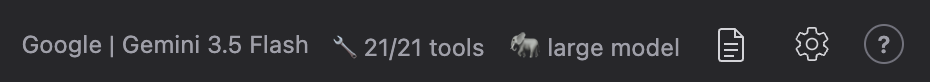
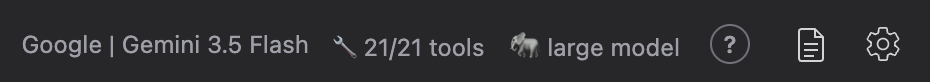
feat(webui): add context-screen help link; regroup chat header help
Add a documentation help link to the shared context editor header, gated on the
"Show help links" preference, placed to the left of the close button and linking
to the Context guide. It renders for every context tab (project/global/
instructions/skills/memory) since they share ContextHeader.

Reorder the chat header so the help "?" sits just left of the Context/Settings
icon pair, keeping that pair intact. This gives one consistent rule across both
headers: help sits immediately left of the trailing control cluster (left of the
close ✕ on the context screen, left of the icon pair in the chat).

Update the chat-ui docs page to match: reorder the header-right bullets, note
the help link can be hidden via Preferences, and refresh the header-right
screenshot.

Changed region(s): [[0.8419, 0.2927, 0.9978, 0.7805], [0.7484, 0.2927, 0.8108, 0.7805]]

diff --git a/webui/src/components/context/editor/ContextHeader.tsx b/webui/src/components/context/editor/ContextHeader.tsx
@@ -8,7 +8,13 @@ import {
   type DocMemoryStatus,
   type SaveStatus,
 } from "#webui/hooks/context/use-doc-memory";
+import { usePreferencesSettings } from "#webui/hooks/use-preferences-settings";
+import { CONTEXT_DOCS_URL } from "#webui/lib/config";
 import { SaveIndicator } from "./SaveIndicator";
+
+// Circular "?" help badge, matching the chat header and settings help links.
+const helpLinkClass =
+  "inline-flex items-center justify-center w-6 h-6 text-sm font-semibold leading-none rounded-full border border-zinc-400 dark:border-zinc-500 text-zinc-500 dark:text-zinc-400 hover:border-zinc-200 hover:text-white dark:hover:border-zinc-300 dark:hover:text-white no-underline shrink-0 transition-colors";
 
 interface ContextHeaderProps {
   title: string;
@@ -30,21 +36,23 @@ interface ContextHeaderProps {
 /**
  * Header strip showing the Producer Pal Context brand (logo + title, top-left),
  * the tab strip (or a plain title), the save indicator (or a custom
- * `rightSlot`), and (when mounted inside the chat-app overlay) a close button.
+ * `rightSlot`), a documentation help link (when help links are enabled in
+ * preferences), and (when mounted inside the chat-app overlay) a close button.
  * Shared by every context screen (docs, memory, skills) so the brand and the
- * tab strip + close affordance stay identical across tabs.
+ * tab strip + help + close controls stay identical across tabs.
  * @param props - Header props
  * @returns Header element
  */
 export function ContextHeader(props: ContextHeaderProps): preact.JSX.Element {
   const { title, tabSlot, closeAriaLabel, status, rightSlot, onClose } = props;
+  const { showHelpLinks } = usePreferencesSettings();
 
   return (
     // Background, height (py-2), border, and shadow mirror the chat header bar
     // (see ChatHeader) so the two screens read as one product.
     //
     // Three columns: the left brand cell (logo + title) balances the right cluster
-    // (save indicator + close) so the centered tab strip stays centered — the two
+    // (save indicator + help + close) so the centered tab strip stays centered — the two
     // 1fr side columns are equal regardless of either side's changing width, so it
     // never nudges the tabs. The cluster lives in its own column (not absolutely
     // positioned), so the tabs can't slide under it; the center cell scrolls
@@ -82,6 +90,17 @@ export function ContextHeader(props: ContextHeaderProps): preact.JSX.Element {
               dirty={props.dirty ?? false}
             />
           ))}
+        {showHelpLinks && (
+          <a
+            href={CONTEXT_DOCS_URL}
+            target="_blank"
+            rel="noopener noreferrer"
+            className={helpLinkClass}
+            title="Documentation"
+          >
+            ?
+          </a>
+        )}
         {onClose != null && (
           <button
             type="button"

diff --git a/webui/src/components/context/editor/tests/ContextHeader.test.tsx b/webui/src/components/context/editor/tests/ContextHeader.test.tsx
@@ -1,0 +1,73 @@
+// Producer Pal
+// Copyright (C) 2026 Adam Murray
+// AI assistance: Claude (Anthropic)
+// SPDX-License-Identifier: GPL-3.0-or-later
+
+/**
+ * @vitest-environment happy-dom
+ */
+import { render, screen } from "@testing-library/preact";
+import { afterEach, describe, expect, it } from "vitest";
+import { ContextHeader } from "#webui/components/context/editor/ContextHeader";
+import { CONTEXT_DOCS_URL } from "#webui/lib/config";
+
+const CLOSE_LABEL = "Close context editor";
+
+describe("ContextHeader", () => {
+  afterEach(() => {
+    localStorage.clear();
+  });
+
+  it("shows a Documentation help link to the context guide by default", () => {
+    render(
+      <ContextHeader
+        title="Project Context"
+        closeAriaLabel={CLOSE_LABEL}
+        onClose={() => {}}
+      />,
+    );
+
+    const link = screen.getByTitle("Documentation");
+
+    expect(link.tagName).toBe("A");
+    expect(link.getAttribute("href")).toBe(CONTEXT_DOCS_URL);
+    expect(link.getAttribute("target")).toBe("_blank");
+    expect(link.getAttribute("rel")).toBe("noopener noreferrer");
+  });
+
+  it("places the help link directly before the close button", () => {
+    render(
+      <ContextHeader
+        title="Project Context"
+        closeAriaLabel={CLOSE_LABEL}
+        onClose={() => {}}
+      />,
+    );
+
+    const link = screen.getByTitle("Documentation");
+    const closeButton = screen.getByLabelText(CLOSE_LABEL);
+
+    // The close button follows the help link in document order (help is to its
+    // left in the right-hand cluster).
+    expect(
+      link.compareDocumentPosition(closeButton) &
+        Node.DOCUMENT_POSITION_FOLLOWING,
+    ).toBeTruthy();
+  });
+
+  it("hides the help link when help links are disabled in preferences", () => {
+    localStorage.setItem("producer_pal_show_help_links", "false");
+
+    render(
+      <ContextHeader
+        title="Project Context"
+        closeAriaLabel={CLOSE_LABEL}
+        onClose={() => {}}
+      />,
+    );
+
+    expect(screen.queryByTitle("Documentation")).toBeNull();
+    // The close button still renders — only the help link is gated.
+    expect(screen.getByLabelText(CLOSE_LABEL)).toBeTruthy();
+  });
+});

diff --git a/webui/src/components/chat/controls/header/HeaderActions.tsx b/webui/src/components/chat/controls/header/HeaderActions.tsx
@@ -38,7 +38,7 @@ export interface HeaderActionsProps {
 }
 
 /**
- * Right-side header actions: model display, tool/small-model indicators, project context, settings, help
+ * Right-side header actions: model display, tool/small-model indicators, help, project context, settings
  * @param props - HeaderActionsProps
  * @param props.headerInfo - Header display state
  * @param props.onOpenSettings - Callback to open settings
@@ -116,6 +116,18 @@ export function HeaderActions({
         />
       </button>
 
+      {showHelpLinks && (
+        <a
+          href={CHAT_UI_DOCS_URL}
+          target="_blank"
+          rel="noopener noreferrer"
+          className={helpBtn}
+          title="Documentation"
+        >
+          ?
+        </a>
+      )}
+
       <button
         onClick={onOpenContext}
         className={iconBtn}
@@ -133,17 +145,6 @@ export function HeaderActions({
       >
         <SettingsIcon />
       </button>
-      {showHelpLinks && (
-        <a
-          href={CHAT_UI_DOCS_URL}
-          target="_blank"
-          rel="noopener noreferrer"
-          className={helpBtn}
-          title="Documentation"
-        >
-          ?
-        </a>
-      )}
     </div>
   );
 }

diff --git a/webui/src/lib/config.ts b/webui/src/lib/config.ts
@@ -18,6 +18,8 @@ export {
 
 export const CHAT_UI_DOCS_URL = "https://producer-pal.org/guide/chat-ui";
 
+export const CONTEXT_DOCS_URL = "https://producer-pal.org/guide/context";
+
 const ALL_MODELS = [
   ...ANTHROPIC_MODELS,
   ...GEMINI_MODELS,

diff --git a/docs/guide/chat-ui.md b/docs/guide/chat-ui.md
@@ -34,13 +34,14 @@ The header is organized into two areas:
 - **Provider & Model** - Click to open connection settings
 - **Tools count** - Click to open tools settings
 - **Model size** - Shows "large model" or "small model" mode
+- **Help (?)** - Link to documentation. Hide it (here and in settings) with
+  **Show help links** in [Preferences](#preferences)
 - **Context** - Open the [context editor](/guide/context) in a larger view,
   where you teach AI about your project (**Project**), your preferences
   (**Global**), and review what it remembers about you (**Memory**) — plus
   customize its system prompt (**Instructions**) and skills (**Skills**). Press
   the close (✕) button to return to the chat
 - **Settings gear** - Open settings dialog
-- **Help (?)** - Link to documentation
 
 ## Conversation History
 
